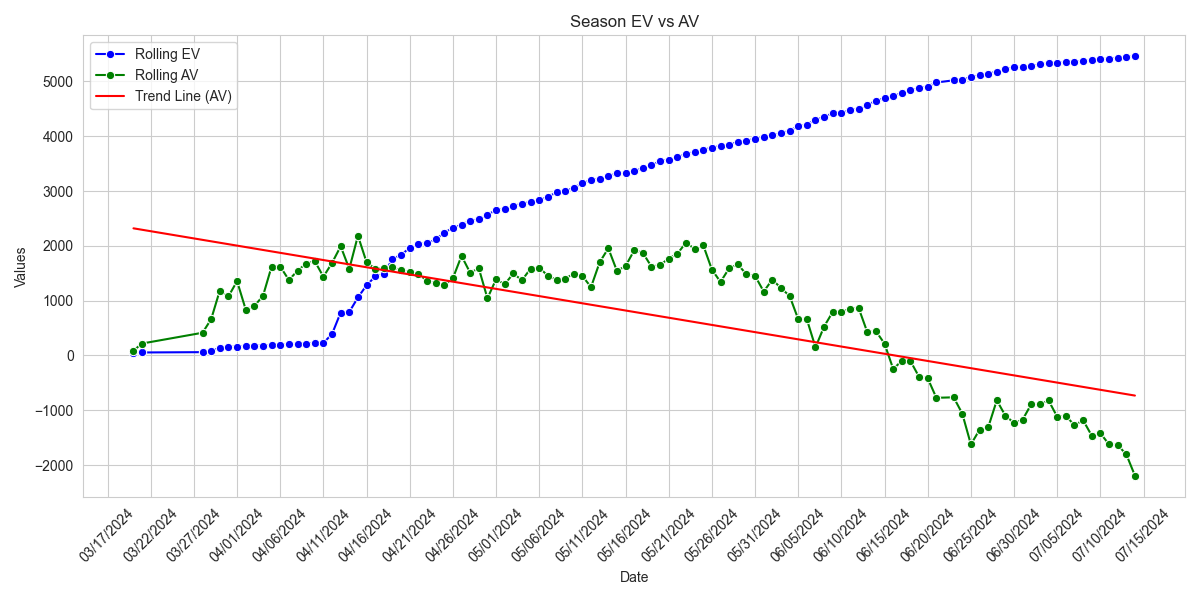
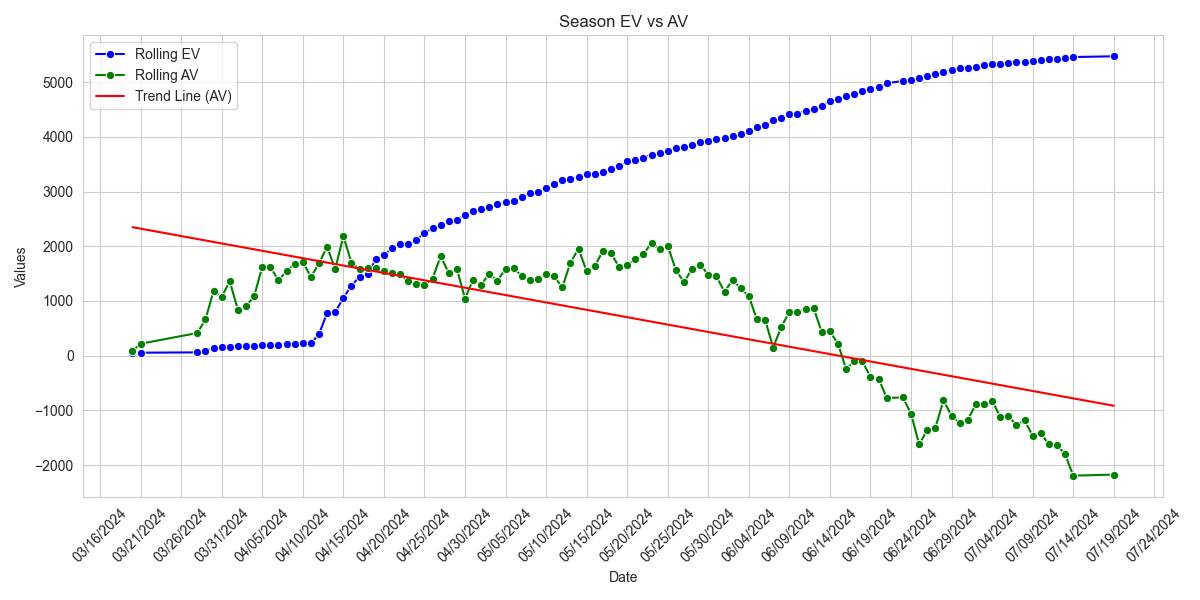
web

diff --git a/index.html b/index.html
@@ -1,1 +1,1 @@
-<html><head><meta name="viewport" content="width=device-width, initial-scale=1"><meta http-equiv="Cache-Control" content="no-cache, no-store, must-revalidate"><meta http-equiv="Pragma" content="no-cache"><meta http-equiv="Expires" content="0"><title>MLB Shit</title><link rel="stylesheet" type="text/css" href="styles.css"></head><body><p><b>Daily Picks</b></p><table><tr><th>Date</th><th>Team</th><th>Price</th><th>Bet</th><th>Win</th><th>WP</th><th>EV</th><th>Type</th><th>Result</th></tr><tr><td>07/19/2024</td><td><img src='https://www.mlbstatic.com/team-logos/143.svg' height=30 width=30></td><td>-155</td><td>$94.00</td><td>$60.65</td><td>61.4%</td><td>1.0%</td><td>Fav</td><td></td></td><tr><td>07/19/2024</td><td><img src='https://www.mlbstatic.com/team-logos/147.svg' height=30 width=30></td><td>-170</td><td>$101.50</td><td>$59.71</td><td>65.0%</td><td>3.3%</td><td>Fav</td><td></td></td><tr><td>07/19/2024</td><td><img src='https://www.mlbstatic.com/team-logos/121.svg' height=30 width=30></td><td>-130</td><td>$90.25</td><td>$69.42</td><td>58.8%</td><td>3.6%</td><td>Fav</td><td></td></td><tr><td>07/19/2024</td><td><img src='https://www.mlbstatic.com/team-logos/110.svg' height=30 width=30></td><td>-130</td><td>$92.75</td><td>$71.35</td><td>59.9%</td><td>5.5%</td><td>Fav</td><td></td></td><tr><td>07/19/2024</td><td><img src='https://www.mlbstatic.com/team-logos/133.svg' height=30 width=30></td><td>-110</td><td>$78.75</td><td>$71.59</td><td>52.5%</td><td>0.2%</td><td>Fav</td><td></td></td><tr><th colspan=9><B>SUMMARY: $457.25 in play to win $332.72</B></th></tr><tr><th colspan=9><B>LAST UPDATED: 07/19/2024 08:52 AM</B></th></tr></table><p><b>Monthly Totals</b></p><table><tr><th>Date</th><th>Profit</th><th>W/L</th><th>Favs</th><th>Dogs</th><th>Fav $</th><th>Dog $</th></tr><tr><td>07/01/2024</td><td>$62.68</td><td>1-0</td><td>1-0</td><td>0</td><td>$62.68</td><td>$0.00</td></td><tr><td>07/02/2024</td><td>$281.90</td><td>7-3</td><td>3-1</td><td>4-2</td><td>$107.39</td><td>$174.51</td></td><tr><td>07/03/2024</td><td>$-0.70</td><td>5-4</td><td>2-3</td><td>3-1</td><td>$-167.00</td><td>$166.30</td></td><tr><td>07/04/2024</td><td>$66.25</td><td>5-3</td><td>4-3</td><td>1-0</td><td>$-20.96</td><td>$87.21</td></td><tr><td>07/05/2024</td><td>$-298.50</td><td>2-5</td><td>2-3</td><td>0-2</td><td>$-146.25</td><td>$-152.25</td></td><tr><td>07/06/2024</td><td>$17.15</td><td>4-3</td><td>4-2</td><td>0-1</td><td>$89.90</td><td>$-72.75</td></td><tr><td>07/07/2024</td><td>$-169.83</td><td>2-4</td><td>2-1</td><td>0-3</td><td>$43.42</td><td>$-213.25</td></td><tr><td>07/08/2024</td><td>$90.88</td><td>4-2</td><td>3-1</td><td>1-1</td><td>$94.18</td><td>$-3.30</td></td><tr><td>07/09/2024</td><td>$-282.30</td><td>1-4</td><td>1-3</td><td>0-1</td><td>$-213.80</td><td>$-68.50</td></td><tr><td>07/10/2024</td><td>$44.66</td><td>7-5</td><td>3-5</td><td>4-0</td><td>$-296.13</td><td>$340.79</td></td><tr><td>07/11/2024</td><td>$-203.27</td><td>2-4</td><td>2-2</td><td>0-2</td><td>$-54.77</td><td>$-148.50</td></td><tr><td>07/12/2024</td><td>$-11.66</td><td>3-3</td><td>2-0</td><td>1-3</td><td>$131.05</td><td>$-142.71</td></td><tr><td>07/13/2024</td><td>$-169.94</td><td>4-5</td><td>3-4</td><td>1-1</td><td>$-171.59</td><td>$1.65</td></td><tr><td>07/14/2024</td><td>$-388.12</td><td>4-7</td><td>4-5</td><td>0-2</td><td>$-243.12</td><td>$-145.00</td></td><tr><th colspan=7>TOTALS</th></tr><tr><th colspan=2>Monthly Profit</th><th colspan=2>W%</th><th>Fav W%</th><th>Dog W%</th><th>Predicted Upset W%</th></tr><tr><td colspan=2>$-960.80</td><td colspan=2>49.5%</td><td>52.2%</td><td>44.1%</td><td>42.9%</td></tr></table><p><b>Season Totals</b></p><table width="30%"><tr><th width="25%">Month</th><th width="25%">Profit</th><th width="25%" colspan=2>Bankroll Growth</th></tr><tr><td>March</td><td>$1,077.72</td><td colspan=2>13.4715%</td></td><tr><td>April</td><td>$-35.26</td><td colspan=2>-0.44075%</td></td><tr><td>May</td><td>$410.27</td><td colspan=2>5.128375%</td></td><tr><td>June</td><td>$-2,683.52</td><td colspan=2>-33.544%</td></td><tr><td>July</td><td>$-960.80</td><td colspan=2>-12.01%</td></td><tr><td><b><i>TOTAL</i></b></td><td><b><i>$-2,191.59</i></b></td><td colspan=2><b><i>-27.394875%</i></b></td></td><tr><th colspan=4>Performance</th></tr><tr><th>Season W%</th><th>Fav W%</th><th>Dog W%</th><th>Predicted Upset W%</th></tr><tr><td>50.7%</td><td>56.5%</td><td>45.4%</td><td>47.7%</td></tr></table><p><table><tr><td><img class="chart" src="images/ev_graph.png"></td></tr></table></p></body></html>
+<html><head><meta name="viewport" content="width=device-width, initial-scale=1"><meta http-equiv="Cache-Control" content="no-cache, no-store, must-revalidate"><meta http-equiv="Pragma" content="no-cache"><meta http-equiv="Expires" content="0"><title>MLB Shit</title><link rel="stylesheet" type="text/css" href="styles.css"></head><body><p><b>Daily Picks</b></p><table><tr><th>Date</th><th>Team</th><th>Price</th><th>Bet</th><th>Win</th><th>WP</th><th>EV</th><th>Type</th><th>Result</th></tr><tr><td>07/22/2024</td><td><img src='https://www.mlbstatic.com/team-logos/147.svg' height=30 width=30></td><td>-170</td><td>$100.75</td><td>$59.26</td><td>64.8%</td><td>2.9%</td><td>Fav</td><td></td></td><tr><td>07/22/2024</td><td><img src='https://www.mlbstatic.com/team-logos/121.svg' height=30 width=30></td><td>-166</td><td>$99.25</td><td>$59.79</td><td>64.0%</td><td>2.5%</td><td>Fav</td><td></td></td><tr><td>07/22/2024</td><td><img src='https://www.mlbstatic.com/team-logos/138.svg' height=30 width=30></td><td>+110</td><td>$73.25</td><td>$80.58</td><td>48.5%</td><td>1.4%</td><td>Dog</td><td></td></td><tr><td>07/22/2024</td><td><img src='https://www.mlbstatic.com/team-logos/114.svg' height=30 width=30></td><td>+105</td><td>$78.75</td><td>$82.69</td><td>51.6%</td><td>4.6%</td><td>Dog</td><td></td></td><tr><td>07/22/2024</td><td><img src='https://www.mlbstatic.com/team-logos/119.svg' height=30 width=30></td><td>-148</td><td>$92.75</td><td>$62.67</td><td>60.7%</td><td>1.6%</td><td>Fav</td><td></td></td><tr><th colspan=9><B>SUMMARY: $444.75 in play to win $344.99</B></th></tr><tr><th colspan=9><B>LAST UPDATED: 07/22/2024 08:41 AM</B></th></tr></table><p><b>Monthly Totals</b></p><table><tr><th>Date</th><th>Profit</th><th>W/L</th><th>Favs</th><th>Dogs</th><th>Fav $</th><th>Dog $</th></tr><tr><td>07/01/2024</td><td>$62.68</td><td>1-0</td><td>1-0</td><td>0</td><td>$62.68</td><td>$0.00</td></td><tr><td>07/02/2024</td><td>$281.90</td><td>7-3</td><td>3-1</td><td>4-2</td><td>$107.39</td><td>$174.51</td></td><tr><td>07/03/2024</td><td>$-0.70</td><td>5-4</td><td>2-3</td><td>3-1</td><td>$-167.00</td><td>$166.30</td></td><tr><td>07/04/2024</td><td>$66.25</td><td>5-3</td><td>4-3</td><td>1-0</td><td>$-20.96</td><td>$87.21</td></td><tr><td>07/05/2024</td><td>$-298.50</td><td>2-5</td><td>2-3</td><td>0-2</td><td>$-146.25</td><td>$-152.25</td></td><tr><td>07/06/2024</td><td>$17.15</td><td>4-3</td><td>4-2</td><td>0-1</td><td>$89.90</td><td>$-72.75</td></td><tr><td>07/07/2024</td><td>$-169.83</td><td>2-4</td><td>2-1</td><td>0-3</td><td>$43.42</td><td>$-213.25</td></td><tr><td>07/08/2024</td><td>$90.88</td><td>4-2</td><td>3-1</td><td>1-1</td><td>$94.18</td><td>$-3.30</td></td><tr><td>07/09/2024</td><td>$-282.30</td><td>1-4</td><td>1-3</td><td>0-1</td><td>$-213.80</td><td>$-68.50</td></td><tr><td>07/10/2024</td><td>$44.66</td><td>7-5</td><td>3-5</td><td>4-0</td><td>$-296.13</td><td>$340.79</td></td><tr><td>07/11/2024</td><td>$-203.27</td><td>2-4</td><td>2-2</td><td>0-2</td><td>$-54.77</td><td>$-148.50</td></td><tr><td>07/12/2024</td><td>$-11.66</td><td>3-3</td><td>2-0</td><td>1-3</td><td>$131.05</td><td>$-142.71</td></td><tr><td>07/13/2024</td><td>$-169.94</td><td>4-5</td><td>3-4</td><td>1-1</td><td>$-171.59</td><td>$1.65</td></td><tr><td>07/14/2024</td><td>$-388.12</td><td>4-7</td><td>4-5</td><td>0-2</td><td>$-243.12</td><td>$-145.00</td></td><tr><td>07/19/2024</td><td>$18.40</td><td>3-2</td><td>3-2</td><td>0</td><td>$18.40</td><td>$0.00</td></td><tr><th colspan=7>TOTALS</th></tr><tr><th colspan=2>Monthly Profit</th><th colspan=2>W%</th><th>Fav W%</th><th>Dog W%</th><th>Predicted Upset W%</th></tr><tr><td colspan=2>$-942.40</td><td colspan=2>50.0%</td><td>52.7%</td><td>44.1%</td><td>42.9%</td></tr></table><p><b>Season Totals</b></p><table width="30%"><tr><th width="25%">Month</th><th width="25%">Profit</th><th width="25%" colspan=2>Bankroll Growth</th></tr><tr><td>March</td><td>$1,077.72</td><td colspan=2>13.4715%</td></td><tr><td>April</td><td>$-35.26</td><td colspan=2>-0.44075%</td></td><tr><td>May</td><td>$410.27</td><td colspan=2>5.128375%</td></td><tr><td>June</td><td>$-2,683.52</td><td colspan=2>-33.544%</td></td><tr><td>July</td><td>$-942.40</td><td colspan=2>-11.78%</td></td><tr><td><b><i>TOTAL</i></b></td><td><b><i>$-2,173.19</i></b></td><td colspan=2><b><i>-27.164875%</i></b></td></td><tr><th colspan=4>Performance</th></tr><tr><th>Season W%</th><th>Fav W%</th><th>Dog W%</th><th>Predicted Upset W%</th></tr><tr><td>50.7%</td><td>56.5%</td><td>45.4%</td><td>47.7%</td></tr></table><p><table><tr><td><img class="chart" src="images/ev_graph.png"></td></tr></table></p></body></html>
